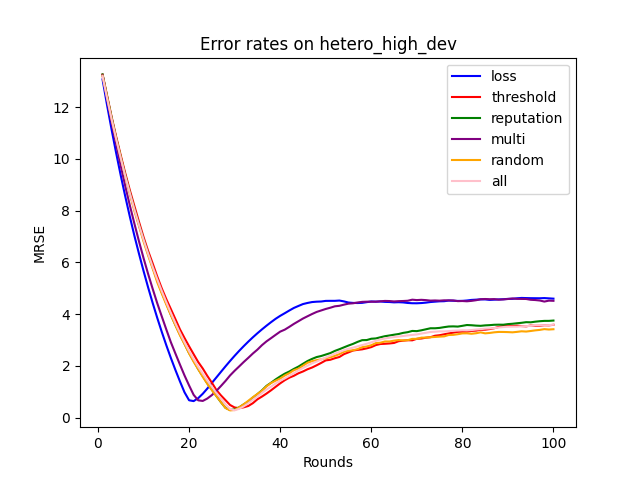
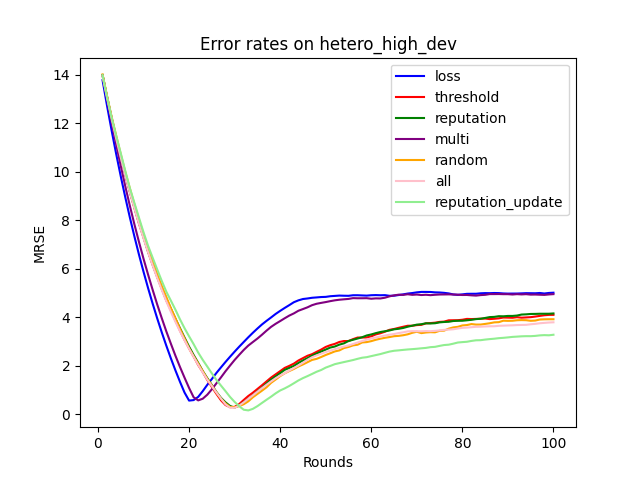
implemented avg update rep based CS (prev commit was bugged)

diff --git a/fl_simulator/client_selection_algorithms/reputation_update_based/reputation_update_based_server.py b/fl_simulator/client_selection_algorithms/reputation_update_based/reputation_update_based_server.py
@@ -1,0 +1,90 @@
+# implements the request_updates() and update_client_weights() methods of the server wrt the reputation based algorithm
+import asyncio
+import math
+
+# int threshold: the time allowed for clients to calculate their updates
+async def request_updates(server):
+    client_updates = {}
+    
+    # Create tasks for all clients
+    tasks = []
+
+    # select the most reputable clients
+    # initial value of client scores are 10, they will be picked above 6
+    selected_clients = []
+    for client, score in server.client_scores.items():
+        if score > 6:
+            selected_clients.append(client)
+    
+    for client in selected_clients:
+        # Assuming client.get_updates() is an async method that needs current model parameters
+        task = client.get_updates(global_model_slope=server.slope,
+                                    global_model_constant=server.constant,
+                                    threshold=server.threshold)
+        tasks.append(task)
+
+    # Wait for all updates to complete
+    results = await asyncio.gather(*tasks)
+
+    # Map results back to clients
+    for i, result in enumerate(results):
+        client_updates[selected_clients[i]] = result
+
+    return client_updates
+
+
+
+def update_client_scores(server, client_updates):
+
+    # needed since client_updates is none in the first round and we first update the client scores, then call for local model updates
+    if client_updates == None:
+        return
+
+    # calculate average client response time and highest deviation from the average
+    avg_slope_update, max_slope_update, avg_cons_update, max_cons_update = get_update_stats(client_updates)
+
+    for client, score in server.client_scores.items():
+
+        # if the client falls below the threshold, i.e not being picked, increment it's score
+        if score < 7:
+            server.client_scores[client] += 0.5
+        elif 7 <= score < 25:
+            slope_diff_normalized = abs(client_updates[client][0] - avg_slope_update) / max_slope_update
+            cons_diff_normalized = abs(client_updates[client][1] - avg_cons_update) / max_cons_update
+
+            # update score wrt slope difference from the average
+            if 0 <= slope_diff_normalized <= 1/3:
+                server.client_scores[client] += 1
+            elif 2/3 <= slope_diff_normalized <= 1:
+                server.client_scores[client] -= 1.5
+
+            # update score wrt slope difference from the average
+            if 0 <= cons_diff_normalized <= 1/3:
+                server.client_scores[client] += 1
+            elif 2/3 <= cons_diff_normalized <= 1:
+                server.client_scores[client] -= 1.5
+
+
+
+def get_update_stats(client_updates):
+    """
+    Calculates the average and maximum deviation from the average for both slope and constant updates.
+    Args:
+        client_updates (dict): {client_id: (slope_update, constant_update), ...}
+    Returns:
+        avg_slope_update (float)
+        max_slope_update (float)
+        avg_cons_update (float)
+        max_cons_update (float)
+    """
+
+    slope_updates = [update[0] for update in client_updates.values()]
+    cons_updates = [update[1] for update in client_updates.values()]
+
+    avg_slope_update = sum(slope_updates) / len(slope_updates)
+    avg_cons_update = sum(cons_updates) / len(cons_updates)
+
+    max_slope_update = max(abs(s - avg_slope_update) for s in slope_updates)
+    max_cons_update = max(abs(c - avg_cons_update) for c in cons_updates)
+
+    return avg_slope_update, max_slope_update, avg_cons_update, max_cons_update

diff --git a/fl_simulator/server.py b/fl_simulator/server.py
@@ -18,6 +18,7 @@ from .client_selection_algorithms.reputation_based import reputation_based_serve
 from .client_selection_algorithms.multi_criteria_based import multi_criteria_based_server as CS_multi_criteria
 from .client_selection_algorithms.random_based import random_based_server as CS_random
 from .client_selection_algorithms.all_based import all_based_server as CS_all
+from .client_selection_algorithms.reputation_update_based import reputation_update_based_server as CS_reputation_update
 
 class Server:
 
@@ -51,7 +52,7 @@ class Server:
         self.log_state("init")
 
         for i in range(no_of_rounds):
-            print(f"[{self.dataset_type}+{self.CS_algo}]" .ljust(32), f"is on round {i+1}")
+            print(f"[{self.dataset_type}+{self.CS_algo}]" .ljust(40), f"is on round {i+1}")
             self.training_round = i+1
 
             # tells the clients to update their attributes at the start of each round
@@ -95,7 +96,9 @@ class Server:
         elif self.CS_algo == "random":
             client_updates = await CS_random.request_updates(self)
         elif self.CS_algo == "all":
-            client_updates = await CS_all.request_updates(self)        
+            client_updates = await CS_all.request_updates(self)
+        elif self.CS_algo == "reputation_update":
+            client_updates = await CS_reputation_update.request_updates(self)
         else:   # self.CS_algo == "multi"
             client_updates = await CS_multi_criteria.request_updates(self, prev_rounds_updates, m_score_weights)
         return client_updates
@@ -114,6 +117,8 @@ class Server:
             CS_random.update_client_scores(self, client_updates)
         elif self.CS_algo == "all":
             CS_all.update_client_scores(self, client_updates)
+        elif self.CS_algo == "reputation_update":
+            CS_reputation_update.update_client_scores(self, client_updates)
         else:   # self.CS_algo == "multi"
             CS_multi_criteria.update_client_scores(self,client_updates)
 

diff --git a/fl_simulator/client_selection_algorithms/reputation_update_based/reputation_update_based_client.py b/fl_simulator/client_selection_algorithms/reputation_update_based/reputation_update_based_client.py
@@ -1,0 +1,38 @@
+# implements the get_updates() method of the client wrt the reputation based algorithm
+import numpy as np
+
+def get_updates(client, global_model_slope, global_model_constant):
+    # Extract x and y from the dataset tuples
+    x = np.array([point[0] for point in client.dataset])
+    y = np.array([point[1] for point in client.dataset])
+    
+    # Calculate means
+    x_mean = np.mean(x)
+    y_mean = np.mean(y)
+    
+    # Calculate slope using the formula
+    numerator = np.sum((x - x_mean) * (y - y_mean))
+    denominator = np.sum((x - x_mean) ** 2)
+    
+    MIN_DENOMINATOR = 1e-3
+
+    # Handle the case where denominator is zero (all x values are the same)
+    if denominator < MIN_DENOMINATOR:
+        client_slope = 0
+    else:
+        client_slope = numerator / denominator
+    
+    # Calculate intercept using the formula
+    client_constant = y_mean - client_slope * x_mean
+    
+    # Calculate updates as difference from global model
+    slope_update = client_slope - global_model_slope
+    constant_update = client_constant - global_model_constant
+
+    # outlier detection
+    if abs(slope_update) > 10:
+        slope_update = 0
+    if abs(constant_update) > 10:
+        constant_update = 0
+
+    return (slope_update, constant_update)

diff --git a/fl_simulator/client.py b/fl_simulator/client.py
@@ -17,6 +17,7 @@ from .client_selection_algorithms.reputation_based import reputation_based_clien
 from .client_selection_algorithms.multi_criteria_based import multi_criteria_based_client as CS_multi_criteria
 from .client_selection_algorithms.random_based import random_based_client as CS_random
 from .client_selection_algorithms.all_based import all_based_client as CS_all
+from .client_selection_algorithms.reputation_update_based import reputation_update_based_client as CS_reputation_update
 
 class Client:
 
@@ -84,6 +85,8 @@ class Client:
             updates = CS_random.get_updates(self, global_model_slope, global_model_constant)
         elif self.CS_algo == "all":
             updates = CS_all.get_updates(self, global_model_slope, global_model_constant)
+        elif self.CS_algo == "reputation_update":
+            updates = CS_reputation_update.get_updates(self, global_model_slope, global_model_constant)
         else:   # self.CS_algo == "multi"
             updates = CS_multi_criteria.get_updates(self, global_model_slope, global_model_constant)
 

diff --git a/plot/plotter.py b/plot/plotter.py
@@ -37,7 +37,8 @@ def plot_graphs():
         "reputation": "green",
         "multi": "purple",
         "random": "orange",
-        "all":"pink"
+        "all":"pink",
+        "reputation_update": "lightgreen"
     }
     
     grouped_results= defaultdict(list)
@@ -90,7 +91,7 @@ def plot_graphs():
         plt.close()
 
     # go through a subset of dict list, get the time bar graph
-    x_vals = ["loss", "threshold", "reputation", "multi", "random", "all"]
+    x_vals = ["loss", "threshold", "reputation", "multi", "random", "all", "reputation_update"]
     y_vals = []
 
     for x_val in x_vals:

diff --git a/fl_simulator/client_selection_algorithms/reputation_based/reputation_based_server.py b/fl_simulator/client_selection_algorithms/reputation_based/reputation_based_server.py
@@ -50,7 +50,7 @@ def update_client_scores(server, client_updates):
 
         # if the client falls below the threshold, i.e not being picked, increment it's score
         if score < 7:
-            server.client_scores[client] += 1
+            server.client_scores[client] += 0.5
         elif 7 <= score < 25:
             
             # penalize or reward clients based on avg and max_resp_dev
